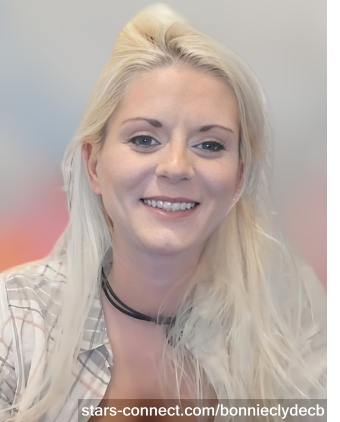
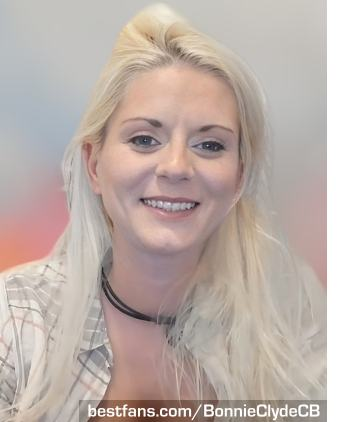
Commit to YOURCURRENTBRANCH

Changed region(s): [[0.2353, 0.955, 0.9706, 1.0]]

diff --git a/girls/kimilee22/_vti_cnf/index.htm b/girls/kimilee22/_vti_cnf/index.htm
@@ -1,11 +1,11 @@
 vti_encoding:SR|utf8-nl
 vti_author:SR|Office-PC\\Office
 vti_modifiedby:SR|Andreas-PC\\Andreas
-vti_timelastmodified:TR|29 Aug 2023 17:56:43 -0000
+vti_timelastmodified:TR|02 Sep 2023 11:19:14 -0000
 vti_timecreated:TR|03 Nov 2019 10:23:31 -0000
 vti_title:SR|Kimilee22 ❤ - Ein deutsches Camgirl mit Unterhaltungswert
 vti_extenderversion:SR|12.0.0.0
-vti_nexttolasttimemodified:TW|25 Aug 2023 13:26:04 -0000
+vti_nexttolasttimemodified:TW|02 Sep 2023 11:17:02 -0000
 vti_backlinkinfo:VX|AAAltes\\ Zeug/lisa/index.htm girls/hotbella/index.htm AAAltes\\ Zeug/bonnie/jungespaar2822-neu.htm leitfaden/index.htm AAAltes\\ Zeug/index.htm jugendschutz/index.htm AAAltes\\ Zeug/bonnie/jungespaar2822ganzalt.htm AAAltes\\ Zeug/Rohdaten/vanessa_love/index-erotik.htm AAAltes\\ Zeug/lisa/videoschnippsel/index.htm AAAltes\\ Zeug/bonnie/jungespaar2822_zu-neu.htm AAAltes\\ Zeug/girls/sastina/index.htm AAAltes\\ Zeug/bonnie/index.htm AAAltes\\ Zeug/lisa/tagebuch-archiv/001.htm faq/index.htm girls/hot_wet_lilly/index.htm girls/deutsche-camgirls.htm content-diebstahl/index.htm technik/index.htm deutschecamgirls.htm girls/kimilee22/index.htm girls/vanessa_love/index.htm AAAltes\\ Zeug/bonnie/jungespaar2822.htm index.htm profit/index.htm leitfaden/pseudonym/index.htm deutsche-erotik-streamerin/index.htm girls/sastina/index.htm girls/bonnie/jungespaar2822.htm liebe/index.htm girls/veronika_rose/index.htm AAAltes\\ Zeug/girls/index.htm girls/yaraliebe/index.htm
 vti_syncofs_webcam-darstellerin.com\:21/webcam-darstellerin.com:TW|14 Nov 2019 10:41:29 -0000
 vti_syncwith_webcam-darstellerin.com\:21/webcam-darstellerin.com:TX|12 Nov 2019 12:13:55 -0000
@@ -22,12 +22,12 @@ vti_syncwith_test.webcam-darstellerin.com\:21:TX|28 Oct 2020 19:42:46 -0000
 vti_syncofs_test.webcam-darstellerin.com\:21:TW|02 Nov 2020 14:25:41 -0000
 vti_syncwith_webcam-darstellerin.com\:21:TX|01 Aug 2021 12:37:55 -0000
 vti_syncofs_webcam-darstellerin.com\:21:TW|01 Aug 2021 12:42:15 -0000
-vti_cacheddtm:TX|29 Aug 2023 17:56:43 -0000
-vti_filesize:IR|18860
+vti_cacheddtm:TX|02 Sep 2023 11:19:14 -0000
+vti_filesize:IR|18971
 vti_cachedtitle:SR|Kimilee22 ❤ - Ein deutsches Camgirl mit Unterhaltungswert
 vti_cachedbodystyle:SR|<body style="background-color: #FFD7D7; margin-left: 0; margin-right: 0; margin-top: 0;">
-vti_cachedlinkinfo:VX|H|/dateien-deutsche-camgirls/favicon.ico H|/dateien-deutsche-camgirls/apple-touch-icon.png H|/dateien-deutsche-camgirls/apple-touch-icon-57x57.png H|/dateien-deutsche-camgirls/apple-touch-icon-72x72.png H|/dateien-deutsche-camgirls/apple-touch-icon-76x76.png H|/dateien-deutsche-camgirls/apple-touch-icon-114x114.png H|/dateien-deutsche-camgirls/apple-touch-icon-120x120.png H|/dateien-deutsche-camgirls/apple-touch-icon-144x144.png H|/dateien-deutsche-camgirls/apple-touch-icon-152x152.png H|/dateien-deutsche-camgirls/apple-touch-icon-180x180.png H|https://webcam-darstellerin.com/girls/kimilee22/index.htm H|../../index.htm S|../../dateien-deutsche-camgirls/banner.jpg S|kimilee22.gif K|index.htm K|index.htm S|kimilee22.jpg K|index.htm -S|https://de.chaturbate.com/fullvideo/ -H|https://chaturbate.com/in/ -S|../zur-livecam.gif -K|lisaonthemoon.htm I|lisaonthemoon.htm H|https://www.instagram.com/lisaonthemooni/ H|https://www.instagram.com/lisa.sakura22/ H|https://onlyfans.com/lisamaus H|https://www.tiktok.com/@lisaonthemooni S|lisaonthemoon.jpg H|https://www.twitch.tv/lisamaus_tv H|https://www.youtube.com/@lisaonthemoon H|../hot_wet_lilly/index.htm H|../hotbella/index.htm H|../bonnie/jungespaar2822.htm H|../kimilee22/index.htm H|../sastina/index.htm H|../vanessa_love/index.htm H|../veronika_rose/index.htm H|../yaraliebe/index.htm H|../../deutschecamgirls.htm S|../../impressum.gif -H|../../impressum/index.htm -H|../../index.htm -S|../../deutsche-camgirls.gif -S|https://sichere-verbindung.webcam-darstellerin.com/mghb I|../../footer.htm
-vti_cachedsvcrellinks:VX|NHUS|/dateien-deutsche-camgirls/favicon.ico NHUS|/dateien-deutsche-camgirls/apple-touch-icon.png NHUS|/dateien-deutsche-camgirls/apple-touch-icon-57x57.png NHUS|/dateien-deutsche-camgirls/apple-touch-icon-72x72.png NHUS|/dateien-deutsche-camgirls/apple-touch-icon-76x76.png NHUS|/dateien-deutsche-camgirls/apple-touch-icon-114x114.png NHUS|/dateien-deutsche-camgirls/apple-touch-icon-120x120.png NHUS|/dateien-deutsche-camgirls/apple-touch-icon-144x144.png NHUS|/dateien-deutsche-camgirls/apple-touch-icon-152x152.png NHUS|/dateien-deutsche-camgirls/apple-touch-icon-180x180.png NHSS|https://webcam-darstellerin.com/girls/kimilee22/index.htm FHUS|index.htm FSUS|dateien-deutsche-camgirls/banner.jpg FSUS|girls/kimilee22/kimilee22.gif FKUS|girls/kimilee22/index.htm FKUS|girls/kimilee22/index.htm FSUS|girls/kimilee22/kimilee22.jpg FKUS|girls/kimilee22/index.htm FIUS|girls/kimilee22/lisaonthemoon.htm NHSS|https://www.instagram.com/lisaonthemooni/ NHSS|https://www.instagram.com/lisa.sakura22/ NHSS|https://onlyfans.com/lisamaus NHSS|https://www.tiktok.com/@lisaonthemooni FSUS|girls/kimilee22/lisaonthemoon.jpg NHSS|https://www.twitch.tv/lisamaus_tv NHSS|https://www.youtube.com/@lisaonthemoon FHUS|girls/hot_wet_lilly/index.htm FHUS|girls/hotbella/index.htm FHUS|girls/bonnie/jungespaar2822.htm FHUS|girls/kimilee22/index.htm FHUS|girls/sastina/index.htm FHUS|girls/vanessa_love/index.htm FHUS|girls/veronika_rose/index.htm FHUS|girls/yaraliebe/index.htm FHUS|deutschecamgirls.htm FSUS|impressum.gif FIUS|footer.htm
+vti_cachedlinkinfo:VX|H|/dateien-deutsche-camgirls/favicon.ico H|/dateien-deutsche-camgirls/apple-touch-icon.png H|/dateien-deutsche-camgirls/apple-touch-icon-57x57.png H|/dateien-deutsche-camgirls/apple-touch-icon-72x72.png H|/dateien-deutsche-camgirls/apple-touch-icon-76x76.png H|/dateien-deutsche-camgirls/apple-touch-icon-114x114.png H|/dateien-deutsche-camgirls/apple-touch-icon-120x120.png H|/dateien-deutsche-camgirls/apple-touch-icon-144x144.png H|/dateien-deutsche-camgirls/apple-touch-icon-152x152.png H|/dateien-deutsche-camgirls/apple-touch-icon-180x180.png H|https://webcam-darstellerin.com/girls/kimilee22/index.htm H|../../index.htm S|../../dateien-deutsche-camgirls/banner.jpg S|kimilee22.gif K|index.htm K|index.htm S|kimilee22.jpg K|index.htm -S|https://de.chaturbate.com/fullvideo/ -H|https://chaturbate.com/in/ -S|../zur-livecam.gif -K|lisaonthemoon.htm I|lisaonthemoon.htm H|https://www.instagram.com/lisaonthemooni/ H|https://www.instagram.com/lisa.sakura22/ H|https://onlyfans.com/lisamaus H|https://www.tiktok.com/@lisaonthemooni S|lisaonthemoon.jpg H|https://www.twitch.tv/lisamaus_gaming H|https://www.youtube.com/@lisaonthemoon H|../hot_wet_lilly/index.htm H|../hotbella/index.htm H|../bonnie/jungespaar2822.htm H|../kimilee22/index.htm H|../sastina/index.htm H|../vanessa_love/index.htm H|../veronika_rose/index.htm H|../yaraliebe/index.htm H|../../deutschecamgirls.htm S|../../impressum.gif -H|../../impressum/index.htm -H|../../index.htm -S|../../deutsche-camgirls.gif -S|https://sichere-verbindung.webcam-darstellerin.com/mghb I|../../footer.htm
+vti_cachedsvcrellinks:VX|NHUS|/dateien-deutsche-camgirls/favicon.ico NHUS|/dateien-deutsche-camgirls/apple-touch-icon.png NHUS|/dateien-deutsche-camgirls/apple-touch-icon-57x57.png NHUS|/dateien-deutsche-camgirls/apple-touch-icon-72x72.png NHUS|/dateien-deutsche-camgirls/apple-touch-icon-76x76.png NHUS|/dateien-deutsche-camgirls/apple-touch-icon-114x114.png NHUS|/dateien-deutsche-camgirls/apple-touch-icon-120x120.png NHUS|/dateien-deutsche-camgirls/apple-touch-icon-144x144.png NHUS|/dateien-deutsche-camgirls/apple-touch-icon-152x152.png NHUS|/dateien-deutsche-camgirls/apple-touch-icon-180x180.png NHSS|https://webcam-darstellerin.com/girls/kimilee22/index.htm FHUS|index.htm FSUS|dateien-deutsche-camgirls/banner.jpg FSUS|girls/kimilee22/kimilee22.gif FKUS|girls/kimilee22/index.htm FKUS|girls/kimilee22/index.htm FSUS|girls/kimilee22/kimilee22.jpg FKUS|girls/kimilee22/index.htm FIUS|girls/kimilee22/lisaonthemoon.htm NHSS|https://www.instagram.com/lisaonthemooni/ NHSS|https://www.instagram.com/lisa.sakura22/ NHSS|https://onlyfans.com/lisamaus NHSS|https://www.tiktok.com/@lisaonthemooni FSUS|girls/kimilee22/lisaonthemoon.jpg NHSS|https://www.twitch.tv/lisamaus_gaming NHSS|https://www.youtube.com/@lisaonthemoon FHUS|girls/hot_wet_lilly/index.htm FHUS|girls/hotbella/index.htm FHUS|girls/bonnie/jungespaar2822.htm FHUS|girls/kimilee22/index.htm FHUS|girls/sastina/index.htm FHUS|girls/vanessa_love/index.htm FHUS|girls/veronika_rose/index.htm FHUS|girls/yaraliebe/index.htm FHUS|deutschecamgirls.htm FSUS|impressum.gif FIUS|footer.htm
 vti_cachedneedsrewrite:BR|true
 vti_cachedhasbots:BR|true
 vti_cachedhastheme:BR|false

diff --git a/girls/bonnie/_vti_cnf/jungespaar2822.htm b/girls/bonnie/_vti_cnf/jungespaar2822.htm
@@ -1,17 +1,17 @@
 vti_encoding:SR|utf8-nl
 vti_author:SR|Andreas-PC\\Andreas
 vti_modifiedby:SR|Andreas-PC\\Andreas
-vti_timelastmodified:TR|18 Aug 2023 14:09:01 -0000
+vti_timelastmodified:TR|06 Sep 2023 10:54:44 -0000
 vti_timecreated:TR|30 Mar 2023 13:35:15 -0000
 vti_title:SR|Jungespaar2822 ❤ - Camgirl Bonnie, deutsch, live & in Farbe
 vti_extenderversion:SR|12.0.0.0
 vti_backlinkinfo:VX|girls/sastina/index.htm index.htm AAAltes\\ Zeug/bonnie/jungespaar2822-neu.htm AAAltes\\ Zeug/lisa/index.htm girls/bonnie/jungespaar2822.htm girls/hotbella/index.htm leitfaden/index.htm jugendschutz/index.htm AAAltes\\ Zeug/Rohdaten/vanessa_love/index-erotik.htm girls/yaraliebe/index.htm AAAltes\\ Zeug/girls/index.htm girls/veronika_rose/index.htm AAAltes\\ Zeug/girls/sastina/index.htm spielzeug/index.htm deutschecamgirls.htm girls/hot_wet_lilly/index.htm girls/kimilee22/index.htm girls/vanessa_love/index.htm content-diebstahl/index.htm
-vti_nexttolasttimemodified:TW|22 Jul 2023 13:28:34 -0000
-vti_cacheddtm:TX|18 Aug 2023 14:09:01 -0000
-vti_filesize:IR|18880
+vti_nexttolasttimemodified:TW|06 Sep 2023 10:51:31 -0000
+vti_cacheddtm:TX|06 Sep 2023 10:54:44 -0000
+vti_filesize:IR|18950
 vti_cachedtitle:SR|Jungespaar2822 ❤ - Camgirl Bonnie, deutsch, live & in Farbe
 vti_cachedbodystyle:SR|<body style="background-color: #FFD7D7; margin-left: 0; margin-right: 0; margin-top: 0;">
-vti_cachedlinkinfo:VX|H|/dateien-deutsche-camgirls/favicon.ico H|/dateien-deutsche-camgirls/apple-touch-icon.png H|/dateien-deutsche-camgirls/apple-touch-icon-57x57.png H|/dateien-deutsche-camgirls/apple-touch-icon-72x72.png H|/dateien-deutsche-camgirls/apple-touch-icon-76x76.png H|/dateien-deutsche-camgirls/apple-touch-icon-114x114.png H|/dateien-deutsche-camgirls/apple-touch-icon-120x120.png H|/dateien-deutsche-camgirls/apple-touch-icon-144x144.png H|/dateien-deutsche-camgirls/apple-touch-icon-152x152.png H|/dateien-deutsche-camgirls/apple-touch-icon-180x180.png H|../../index.htm S|../../dateien-deutsche-camgirls/banner.jpg S|jungespaar2822.gif K|jungespaar2822.htm K|jungespaar2822.htm S|jungespaar2822-bonnie.jpg K|jungespaar2822.htm K|../../spielzeug/index.htm -S|https://chaturbate.com/fullvideo/ -H|https://chaturbate.com/in/ -S|../zur-livecam.gif -K|bonnie.htm -H|https://amzn.to/2QeJQDh I|bonnie.htm -H|https://t.me/s/BonnieClydeCB_News I|../../dateien-deutsche-camgirls/de/jungespaar2822/telegram.html -H|https://www.instagram.com/BonnieClydeCB2022/ I|../../dateien-deutsche-camgirls/de/jungespaar2822/instagram.html -H|https://www.stars-connect.com/bonnieclydecb I|../../dateien-deutsche-camgirls/de/jungespaar2822/onlyfans.html -H|https://www.tiktok.com/@bonnieclydecb I|../../dateien-deutsche-camgirls/de/jungespaar2822/tiktok.html H|https://youtu.be/gDyDjl7UJTU S|../../dateien-deutsche-camgirls/de/jungespaar2822/camgirl-bonnie.jpg K|jungespaar2822.htm H|https://www.youtube.com/channel/UCDfNbqBCUe9yeG1Pbl1Es5Q H|../hot_wet_lilly/index.htm H|../hotbella/index.htm H|jungespaar2822.htm H|../kimilee22/index.htm H|../sastina/index.htm H|../vanessa_love/index.htm H|../veronika_rose/index.htm H|../yaraliebe/index.htm H|../../deutschecamgirls.htm S|../../impressum.gif -H|../../impressum/index.htm -H|../../index.htm -S|../../deutsche-camgirls.gif -S|https://sichere-verbindung.webcam-darstellerin.com/mghb I|../../footer.htm
+vti_cachedlinkinfo:VX|H|/dateien-deutsche-camgirls/favicon.ico H|/dateien-deutsche-camgirls/apple-touch-icon.png H|/dateien-deutsche-camgirls/apple-touch-icon-57x57.png H|/dateien-deutsche-camgirls/apple-touch-icon-72x72.png H|/dateien-deutsche-camgirls/apple-touch-icon-76x76.png H|/dateien-deutsche-camgirls/apple-touch-icon-114x114.png H|/dateien-deutsche-camgirls/apple-touch-icon-120x120.png H|/dateien-deutsche-camgirls/apple-touch-icon-144x144.png H|/dateien-deutsche-camgirls/apple-touch-icon-152x152.png H|/dateien-deutsche-camgirls/apple-touch-icon-180x180.png H|../../index.htm S|../../dateien-deutsche-camgirls/banner.jpg S|jungespaar2822.gif K|jungespaar2822.htm K|jungespaar2822.htm S|jungespaar2822-bonnie.jpg K|jungespaar2822.htm K|../../spielzeug/index.htm -S|https://chaturbate.com/fullvideo/ -H|https://chaturbate.com/in/ -S|../zur-livecam.gif -K|bonnie.htm -H|https://amzn.to/2QeJQDh I|bonnie.htm -H|https://t.me/s/BonnieClydeCB_News I|../../dateien-deutsche-camgirls/de/jungespaar2822/telegram.html -H|https://www.instagram.com/BonnieClydeCB2022/ I|../../dateien-deutsche-camgirls/de/jungespaar2822/instagram.html -H|https://bestfans.com/bonnieclydecb I|../../dateien-deutsche-camgirls/de/jungespaar2822/onlyfans.html -H|https://www.tiktok.com/@bonnieclydecb I|../../dateien-deutsche-camgirls/de/jungespaar2822/tiktok.html H|https://youtu.be/gDyDjl7UJTU S|../../dateien-deutsche-camgirls/de/jungespaar2822/camgirl-bonnie.jpg K|jungespaar2822.htm H|https://www.youtube.com/channel/UCDfNbqBCUe9yeG1Pbl1Es5Q H|../hot_wet_lilly/index.htm H|../hotbella/index.htm H|jungespaar2822.htm H|../kimilee22/index.htm H|../sastina/index.htm H|../vanessa_love/index.htm H|../veronika_rose/index.htm H|../yaraliebe/index.htm H|../../deutschecamgirls.htm S|../../impressum.gif -H|../../impressum/index.htm -H|../../index.htm -S|../../deutsche-camgirls.gif -S|https://sichere-verbindung.webcam-darstellerin.com/mghb I|../../footer.htm
 vti_cachedsvcrellinks:VX|NHUS|/dateien-deutsche-camgirls/favicon.ico NHUS|/dateien-deutsche-camgirls/apple-touch-icon.png NHUS|/dateien-deutsche-camgirls/apple-touch-icon-57x57.png NHUS|/dateien-deutsche-camgirls/apple-touch-icon-72x72.png NHUS|/dateien-deutsche-camgirls/apple-touch-icon-76x76.png NHUS|/dateien-deutsche-camgirls/apple-touch-icon-114x114.png NHUS|/dateien-deutsche-camgirls/apple-touch-icon-120x120.png NHUS|/dateien-deutsche-camgirls/apple-touch-icon-144x144.png NHUS|/dateien-deutsche-camgirls/apple-touch-icon-152x152.png NHUS|/dateien-deutsche-camgirls/apple-touch-icon-180x180.png FHUS|index.htm FSUS|dateien-deutsche-camgirls/banner.jpg FSUS|girls/bonnie/jungespaar2822.gif FKUS|girls/bonnie/jungespaar2822.htm FKUS|girls/bonnie/jungespaar2822.htm FSUS|girls/bonnie/jungespaar2822-bonnie.jpg FKUS|girls/bonnie/jungespaar2822.htm FHUS|spielzeug/index.htm FIUS|girls/bonnie/bonnie.htm FIUS|dateien-deutsche-camgirls/de/jungespaar2822/telegram.html FIUS|dateien-deutsche-camgirls/de/jungespaar2822/instagram.html FIUS|dateien-deutsche-camgirls/de/jungespaar2822/onlyfans.html FIUS|dateien-deutsche-camgirls/de/jungespaar2822/tiktok.html NHSS|https://youtu.be/gDyDjl7UJTU FSUS|dateien-deutsche-camgirls/de/jungespaar2822/camgirl-bonnie.jpg FKUS|girls/bonnie/jungespaar2822.htm NHSS|https://www.youtube.com/channel/UCDfNbqBCUe9yeG1Pbl1Es5Q FHUS|girls/hot_wet_lilly/index.htm FHUS|girls/hotbella/index.htm FHUS|girls/bonnie/jungespaar2822.htm FHUS|girls/kimilee22/index.htm FHUS|girls/sastina/index.htm FHUS|girls/vanessa_love/index.htm FHUS|girls/veronika_rose/index.htm FHUS|girls/yaraliebe/index.htm FHUS|deutschecamgirls.htm FSUS|impressum.gif FIUS|footer.htm
 vti_cachedneedsrewrite:BR|true
 vti_cachedhasbots:BR|true

diff --git a/technik/_vti_cnf/index.htm b/technik/_vti_cnf/index.htm
@@ -1,11 +1,11 @@
 vti_encoding:SR|utf8-nl
 vti_author:SR|Office-PC\\Office
 vti_modifiedby:SR|Andreas-PC\\Andreas
-vti_timelastmodified:TR|16 Aug 2023 14:10:47 -0000
+vti_timelastmodified:TR|03 Sep 2023 15:41:21 -0000
 vti_timecreated:TR|03 Nov 2019 10:23:31 -0000
 vti_title:SR|Das richtige ☀ Equipment für Camgirl & Streamerin
 vti_extenderversion:SR|12.0.0.0
-vti_nexttolasttimemodified:TW|16 Aug 2023 14:06:57 -0000
+vti_nexttolasttimemodified:TW|16 Aug 2023 14:10:47 -0000
 vti_backlinkinfo:VX|profit/index.htm index.htm leitfaden/index.htm AAAltes\\ Zeug/index.htm perfektion/index.htm technik/index.htm content-diebstahl/index.htm
 vti_syncwith_ftp.byethost.com\:21/webcam-darstellerin.com/htdocs:TX|09 Nov 2019 18:29:44 -0000
 vti_syncofs_ftp.byethost.com\:21/webcam-darstellerin.com/htdocs:TW|16 Nov 2019 13:30:10 -0000
@@ -22,8 +22,8 @@ vti_syncwith_test.webcam-darstellerin.com\:21:TX|30 Oct 2020 13:11:20 -0000
 vti_syncofs_test.webcam-darstellerin.com\:21:TW|02 Nov 2020 14:26:11 -0000
 vti_syncwith_webcam-darstellerin.com\:21:TX|06 Aug 2021 10:57:28 -0000
 vti_syncofs_webcam-darstellerin.com\:21:TW|06 Aug 2021 12:09:51 -0000
-vti_cacheddtm:TX|16 Aug 2023 14:10:47 -0000
-vti_filesize:IR|50643
+vti_cacheddtm:TX|03 Sep 2023 15:41:21 -0000
+vti_filesize:IR|50644
 vti_cachedtitle:SR|Das richtige ☀ Equipment für Camgirl & Streamerin
 vti_cachedbodystyle:SR|<body style="background-color: #FFD7D7; margin-left: 0; margin-right: 0; margin-top: 0;">
 vti_cachedlinkinfo:VX|H|/dateien-deutsche-camgirls/favicon.ico H|/dateien-deutsche-camgirls/apple-touch-icon.png H|/dateien-deutsche-camgirls/apple-touch-icon-57x57.png H|/dateien-deutsche-camgirls/apple-touch-icon-72x72.png H|/dateien-deutsche-camgirls/apple-touch-icon-76x76.png H|/dateien-deutsche-camgirls/apple-touch-icon-114x114.png H|/dateien-deutsche-camgirls/apple-touch-icon-120x120.png H|/dateien-deutsche-camgirls/apple-touch-icon-144x144.png H|/dateien-deutsche-camgirls/apple-touch-icon-152x152.png H|/dateien-deutsche-camgirls/apple-touch-icon-180x180.png H|../index.htm S|../dateien-deutsche-camgirls/banner.jpg S|equipment.gif S|beste-webcam-mikrofon.jpg K|index.htm K|index.htm K|index.htm K|index.htm K|index.htm K|index.htm K|index.htm K|index.htm K|index.htm K|index.htm S|logitech-c920.jpg K|index.htm K|index.htm -H|https://www.amazon.de//dp/B006A2Q81M/ref=as_li_ss_tl I|../dateien-deutsche-camgirls/de/equipment/logitech-c920-webcam.htm S|logitech-brio-4k-webcam.jpg K|../perfektion/index.htm K|../perfektion/index.htm H|../girls/kimilee22/index.htm -H|https://www.amazon.de/dp/B01N5NYRES/ref=as_li_ss_tl I|../dateien-deutsche-camgirls/de/equipment/logitech-brio-4k-webcam.htm S|systemkamera-slr.jpg -H|https://www.amazon.de/dp/B07K3FN5MR/ref=as_li_ss_tl -S|slr-systemkamera-streamen.jpg -K|elgato-cam-link.htm I|../dateien-deutsche-camgirls/de/equipment/elgato-cam-link.htm S|fifine-usb-mikrofon.jpg -H|https://www.amazon.de/dp/B09BHJRZZB/ref=as_li_ss_tl I|../dateien-deutsche-camgirls/de/equipment/fifine-k669-mikrofon.htm S|obs-studio-download.jpg H|https://obsproject.com/de H|https://splitcam.com/blog H|https://www.chip.de/downloads/SplitCam_59802194.html S|videoschnitt.jpg H|https://shotcut.org H|https://streamerin.de/shotcut-anleitung-deutsch/index.htm S|computer.jpg -H|https://www.amazon.de/dp/B09ZJ5PK9B/ref=as_li_ss_tl I|../dateien-deutsche-camgirls/de/equipment/computer.htm S|monitorwand.jpg -H|https://www.amazon.de/gp/bestsellers/ce-de/1197292/ref=as_li_ss_tl -H|https://www.amazon.de/gp/bestsellers/ce-de/429868031/ref=as_li_ss_tl -H|https://www.amazon.de/s/ref=as_li_ss_tl I|../dateien-deutsche-camgirls/de/equipment/bildschirme.htm S|gaming-stuhl-camgirl.jpg -H|https://www.amazon.de/dp/B08NT6X31J/ref=as_li_ss_tl I|../dateien-deutsche-camgirls/de/equipment/gaming-stuhl.htm S|elgato-key-light-air.jpg -H|https://www.amazon.de/dp/B082QHRZFW/ref=as_li_ss_tl I|../dateien-deutsche-camgirls/de/equipment/elgato-key-light-air.htm S|nanoleaf-aurora-rhythm.jpg -H|https://www.amazon.de/dp/B08P28P6RV/ref=as_li_ss_tl I|../dateien-deutsche-camgirls/de/equipment/nanoleaf.htm S|pfefferspray-streamerin.jpg -H|https://www.amazon.de/dp/B01MZ2E5NG/ref=as_li_ss_tl I|../dateien-deutsche-camgirls/de/equipment/pfefferspray.htm H|../leitfaden/index.htm S|elektroschocker-camgirl.jpg -H|https://www.amazon.de/dp/B00KX2FX84/ref=as_li_ss_tl I|../dateien-deutsche-camgirls/de/equipment/elektroschocker.htm S|selbstverteidigung.jpg -H|https://www.amazon.de/dp/B08C2Y2SP6/ref=as_li_ss_tl I|../dateien-deutsche-camgirls/de/equipment/selbstverteidigung.htm H|https://www.o2online.de/e-shop/tarif/netz/o2-testkarte H|../spielzeug/index.htm H|../deutschecamgirls.htm S|../impressum.gif -H|../impressum/index.htm -H|../index.htm -S|../deutsche-camgirls.gif -S|https://sichere-verbindung.webcam-darstellerin.com/mghb I|../footer.htm

diff --git a/girls/bonnie/jungespaar2822.htm b/girls/bonnie/jungespaar2822.htm
@@ -124,7 +124,7 @@ a {
 .auto-style114 {
 	text-align: right;
 	color: #AE1010;
-	margin-right: 262px;
+	margin-right: 242px;
 	margin-top: 28px;
 	margin-bottom: -35px;
 }
@@ -146,11 +146,6 @@ a {
 	margin-right: 285px;
 	margin-top: 28px;
 	margin-bottom: -35px;
-}
-.auto-style120 {
-	text-align: center;
-	margin-top: -4px;
-	margin-bottom: 10px;
 }
 .auto-style121 {
 	color: #808080;
@@ -306,38 +301,40 @@ a {
 <!--webbot bot="Include" endspan i-checksum="32540" --><hr class="auto-style69">
 	<h3 class="auto-style58">Jungespaar2822 auf Onlyfans?</h3>
 	<p class="auto-style112">
-	Ja auch! Bonnie alias
-	Camgirl Jungespaar2822 bevorzugt jedoch andere Content-Plattformen. Während 
-	ihr Angebot an Fickl-Filmchen auf Onlyfans eher spärlich anmutet, bietet sie 
-	auf Bestfans, Peach und Stars-Connect einen Jahresvorrat an Wichsvorlagen 
-	für Mehrfachwichser. Wer einen 
+	Ja auch! Während Bonnie alias Camgirl Jungespaar2822 auf Onlyfans legitime 
+	Onanierhilfen, auch für Heranwachsende veröffentlicht, findet man ihren 
+	FSK18 Content jedoch auf Bestfans. Onlyfans steht bei ihr also für Erotik, 
+	für jenen Content, welcher die gesunde Phantasie des Betrachters 
+	voraussetzt. Wer im Zenit seiner Wichs-Karriere angelangt ist, sich seiner 
+	Phantasie entledigt hat, und zur Erfüllung seiner Bedürfnisse auf harte 
+	Fickl-Filmchen angewiesen ist, findet auf Bonnies Bestfans einen 
+	Jahresvorrat an Wichsvorlagen für Mehrfachwichser. Wer je nach seinen 
+	Vorlieben, hier und/oder da, einen 
 	humanen Obolus entrichtet, kann vom umfangreichen Angebot an Bild- und 
 	Videomaterial der Wahl-Portugiesin profitieren, und sich rund um die Uhr den 
 	Pfeifenkopf polieren. Stetig neuer Content sorgt 
-	für Wichssicherheit in der Zukunft. Auf Only, Peach, Bestfans und 
-	Stars-Connect ist Bonnie über das gleiche Pseudonym "bonnieclydecb" zu 
-	finden. Wir verlinken mal auf Bonnies Stars-Connect, denn da gibt es für 
-	Jedermann, auch für den Geizkragen, ein paar schöne Appetithäppchen 
-	abzufassen.</p>
+	für Wichssicherheit in der Zukunft. Auf Only und Bestfans ist Jungespaar2822 über das gleiche Pseudonym "bonnieclydecb" 
+	zu finden.</p>
 	<p class="auto-style114">
-	<strong>Jungespaar2822 auf Stars-Connect:</strong>
+	<strong>Jungespaar2822 auf Bestfans:</strong>
 	</p>
 
 	<!--webbot bot="Include" U-Include="../../dateien-deutsche-camgirls/de/jungespaar2822/onlyfans.html" TAG="BODY" startspan -->
 
 <p>
 	<span class="auto-style92">
-	<a href="https://www.stars-connect.com/bonnieclydecb" rel="nofollow" target="_blank">
-	<b>stars-connect.com/bonnieclydecb</b></a></span></p>
+	<b>
+	<a href="https://bestfans.com/bonnieclydecb" rel="nofollow" target="_blank">
+	bestfans.com/BonnieClydeCB</a></b></span></p>
 
-<!--webbot bot="Include" endspan i-checksum="37286" --><hr class="auto-style69">
+<!--webbot bot="Include" endspan i-checksum="56639" --><hr class="auto-style69">
 	<h3 class="auto-style58">Jungespaar2822 auf TikTok</h3>
 	<p class="auto-style116">
 	Auf TikTok rekrutiert Bonnie die Chaturbate-User der Zukunft. Eben jene 
-	Knaben welche nach dem Sandmännchen ins Bett müssen und immer noch glauben, 
+	Knaben, welche nach dem Sandmännchen ins Bett müssen und immer noch glauben, 
 	der Storch hätte sie gebracht. Auf unverdorbene Weise macht Jungespaar2822 die Jungens 
 	mit dem weiblichen Körper vertraut und setzt deren Kopfkino in Gange. Kaum 
-	sind die lieben Kleinen 18, kaufen sie sich die ersten Token.</p>
+	sind die lieben Kleinen 18, kaufen sie sich ihre ersten Token.</p>
 	<p class="auto-style115">
 	<strong>
 	<span class="auto-style92">Jungespaar2822 auf TikTok:</span></strong></p>

diff --git a/girls/kimilee22/index.htm b/girls/kimilee22/index.htm
@@ -116,6 +116,11 @@ a {
 	color: #808080;
 	font-weight: bold;
 }
+.auto-style126 {
+	text-align: justify;
+	color: #000000;
+	line-height: 150%;
+}
 </style>
 <meta content="kimilee22,Lisaonthemoon,Lisamaus,kimilee,Camgirl,Webcam-Girl,deutsch,asmr,Lisamaus_tv" name="keywords">
 <meta content="Das deutsche Camgirl Kimilee22 (Lisaonthemoon ❤) lässt auf Chaturbate die Hose fallen. Auf Twitch begeistert Lisamaus mit ihrer sonoren Stimme!" name="description">
@@ -290,20 +295,21 @@ a {
 	<h2 class="auto-style64"><a name="Lisaonthemoon"></a>Lisamaus auf Twitch</h2>
 	<p class="auto-style114">
 	<img class="auto-style116" height="262" src="lisaonthemoon.jpg" style="float: right" width="228" title="Lisamaus ist und bleibt 26 Jahre jung!" alt="Lisaonthemoon als Lisamaus auf Twitch (Gamingseite)">Wer 
-	von einer sonoren Stimme, auf einen nackten Körper schließen möchte, ohne 
-	ihn sehen zu müssen, bekommt Kimilee22 alias <strong>Lisamaus</strong> <span class="auto-style59">❤</span> auf Twitch zu hören, 
+	von einer sonoren Stimme, auf einen sexy Körper schließen möchte, ohne 
+	ihn sehen zu müssen, bekommt Kimilee22 <span class="auto-style59">❤</span> alias <strong>Lisamaus</strong> auf Twitch zu hören, 
 	aber nicht zu sehen. Im Moment streamt Lisamaus nämlich nur 
 	noch ohne Cam auf Twitch. Eigentlich wollte sie dort ganz aufhören, aufgrund 
 	der teilweise toxischen Community, aber es gibt halt nicht nur Arschlöcher 
 	da draußen. Und so hat sie das Mikrofon wieder aktiviert, die Cam aber
 	<span class="auto-style101">noch</span> nicht. Gut so für die Phantasie! 
-	Auf ihrem Kanal <strong>Lisamaus_tv</strong> konzentriert sich Kimilee22 
+	Auf ihrem Kanal <strong>Lisamaus_gaming</strong> konzentriert sich Kimilee22 
 	z.Zt. auf Just Chatting und Gaming.</p>
-	<p class="auto-style114">
+	<p class="auto-style126">
 	<span class="auto-style117">
 	<strong>Kimilee22 auf Twitch:</strong></span>
-	<a href="https://www.twitch.tv/lisamaus_tv" rel="nofollow" target="_blank"><b>
-	twitch.tv/lisamaus_tv</b></a></p>
+	<br><b>
+	<a href="https://www.twitch.tv/lisamaus_gaming" rel="nofollow" target="_blank">
+	https://www.twitch.tv/lisamaus_gaming</a></b></p>
 	<hr class="auto-style69">
 
 	<h2 class="auto-style64">Kimilee22 

diff --git a/dateien-deutsche-camgirls/de/jungespaar2822/_vti_cnf/onlyfans.html b/dateien-deutsche-camgirls/de/jungespaar2822/_vti_cnf/onlyfans.html
@@ -1,20 +1,21 @@
 vti_encoding:SR|utf8-nl
 vti_author:SR|Andreas-PC\\Andreas
 vti_modifiedby:SR|Andreas-PC\\Andreas
-vti_timelastmodified:TR|30 Mar 2023 14:25:07 -0000
+vti_timelastmodified:TR|06 Sep 2023 10:45:00 -0000
 vti_timecreated:TR|30 Mar 2023 14:25:07 -0000
-vti_cacheddtm:TX|30 Mar 2023 14:25:07 -0000
-vti_filesize:IR|603
+vti_title:SR|stars-connect
+vti_extenderversion:SR|12.0.0.0
+vti_backlinkinfo:VX|girls/bonnie/jungespaar2822.htm
+vti_nexttolasttimemodified:TW|30 Mar 2023 14:25:07 -0000
+vti_cacheddtm:TX|06 Sep 2023 10:45:00 -0000
+vti_filesize:IR|592
 vti_cachedtitle:SR|stars-connect
 vti_cachedbodystyle:SR|<body>
-vti_cachedlinkinfo:VX|H|https://www.stars-connect.com/bonnieclydecb
-vti_cachedsvcrellinks:VX|NHSS|https://www.stars-connect.com/bonnieclydecb
+vti_cachedlinkinfo:VX|H|https://bestfans.com/bonnieclydecb
+vti_cachedsvcrellinks:VX|NHSS|https://bestfans.com/bonnieclydecb
 vti_cachedneedsrewrite:BR|false
 vti_cachedhasbots:BR|false
 vti_cachedhastheme:BR|false
 vti_cachedhasborder:BR|false
 vti_metatags:VR|HTTP-EQUIV=Content-Type text/html;\\ charset=utf-8
 vti_charset:SR|utf-8
-vti_title:SR|stars-connect
-vti_extenderversion:SR|12.0.0.0
-vti_backlinkinfo:VX|girls/bonnie/jungespaar2822.htm

diff --git a/technik/index.htm b/technik/index.htm
@@ -188,7 +188,7 @@ a {
 	Investitionen, denn die wenigen Dinge die noch nicht vorhanden sind, kosten 
 	keine 300 EUR. Ein brauchbarer Rechner, schnelles Internet und die 
 	nötigen Bildschirme sind oft schon vorhanden. Bezüglich des geeigneten 
-	Equipments wollen wir im Folgenden einige Vorschläge unterbreiten:</p>
+	Equipments, wollen wir im Folgenden einige Vorschläge unterbreiten:</p>
 	<p class="auto-style78"><strong><a href="#Webcam" target="_self">
 	<span class="auto-style65">Webcam</span></a><span class="auto-style65">&nbsp; 
 	I&nbsp; <a href="#Mikrofon" target="_self">Mikrofon</a>&nbsp; I&nbsp; 

diff --git a/dateien-deutsche-camgirls/de/jungespaar2822/onlyfans.html b/dateien-deutsche-camgirls/de/jungespaar2822/onlyfans.html
@@ -18,8 +18,9 @@ a {
 
 <p>
 	<span class="auto-style92">
-	<a href="https://www.stars-connect.com/bonnieclydecb" rel="nofollow" target="_blank">
-	<b>stars-connect.com/bonnieclydecb</b></a></span></p>
+	<b>
+	<a href="https://bestfans.com/bonnieclydecb" rel="nofollow" target="_blank">
+	bestfans.com/BonnieClydeCB</a></b></span></p>
 
 </body>
 
